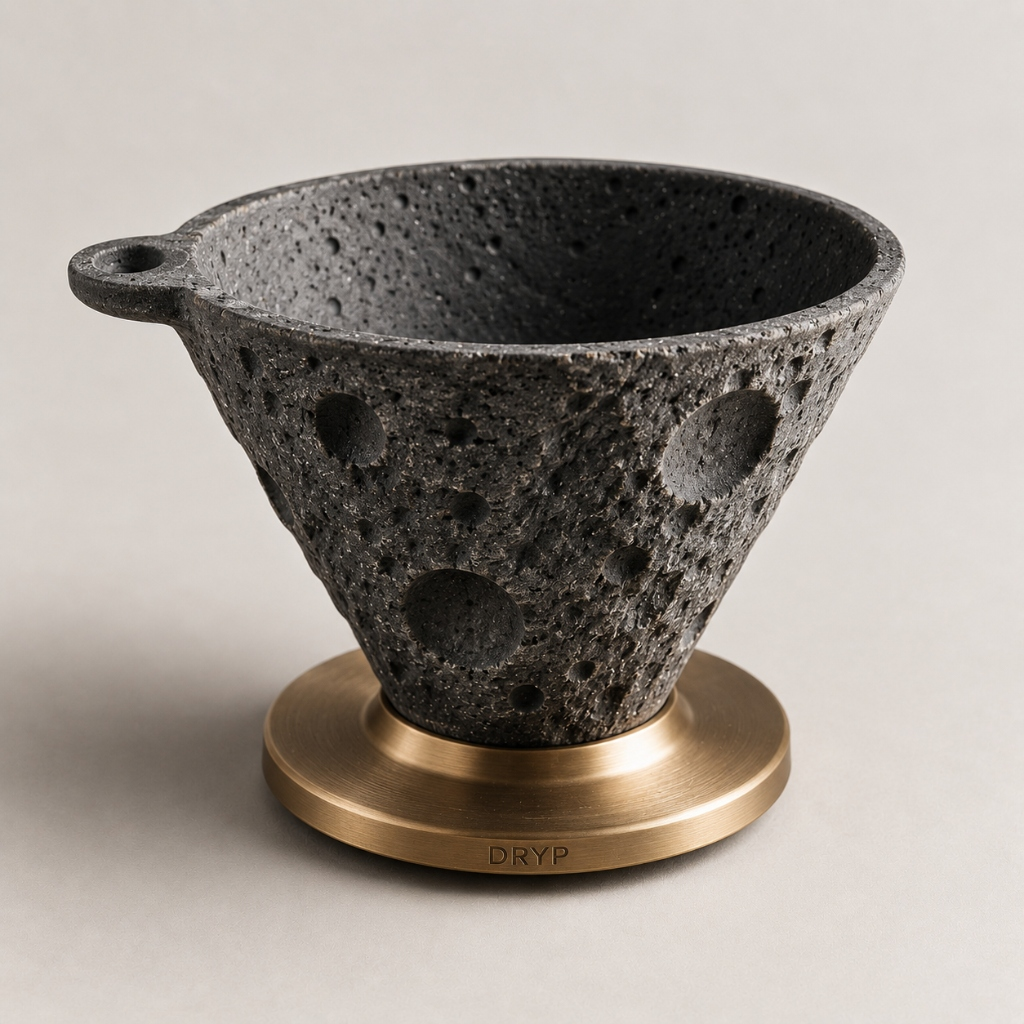
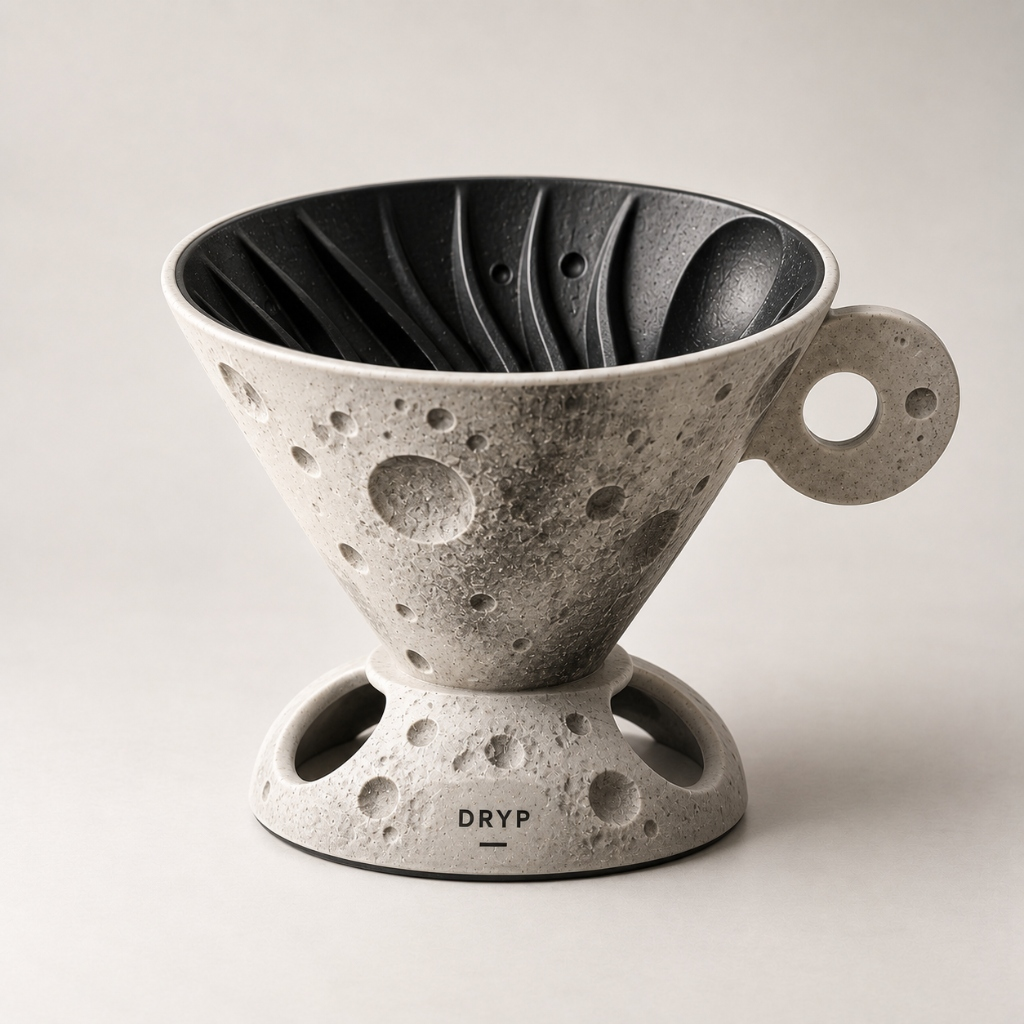
fix: replace Orbit Lunar dripper with cratered lunar regolith ceramic render

diff --git a/dripper-app/src/i18n/localizedData.ts b/dripper-app/src/i18n/localizedData.ts
@@ -559,16 +559,16 @@ export const LOCALIZED_PRODUCTS: Record<Language, Product[]> = {
       eyebrow: 'SPACE 01',
       name: 'Orbit Lunar Crater',
       headline: 'Looking up at things far away.',
-      story: 'Cratered basalt stoneware cone with hand-sculpted lunar topography, tactile rim loop handle, and a solid brushed brass pedestal base debossed with the studio hallmark.',
-      objectDescription: 'Porous volcanic stoneware creates deep thermal retention while the precision machined brass ring anchors steady, vibration-free manual drawdown.',
+      story: 'Speckled lunar regolith stoneware cone deeply sculpted with impact craters, an integrated circular crater loop handle, a contrasting matte dark chamber with spiraled drainage flutes, and an arched pedestal base stamped with DRYP.',
+      objectDescription: 'The micro-textured lunar surface provides natural finger grip and tactile wonder, while internal aerodynamic spiral flutes guide uniform extraction down to a silky, balanced cup.',
       price: 92,
       currency: 'USD',
       stockStatus: 'available',
       stockLabel: 'Available • Lunar Edition',
       stockCountRemaining: 14,
       paletteColors: [
-        { name: 'Basalt Black Crater', hex: '#2A2928' },
-        { name: 'Turned Solid Brass', hex: '#C59A45' }
+        { name: 'Lunar Regolith Grey', hex: '#D1CEC7' },
+        { name: 'Crater Shadow Carbon', hex: '#2A2928' }
       ],
       specs: {
         extractionStyle: 'Clean, sweet, transparent cup with prolonged finish',
@@ -1626,16 +1626,16 @@ export const LOCALIZED_PRODUCTS: Record<Language, Product[]> = {
       eyebrow: 'ESPACIO 01',
       name: 'Orbit Lunar Crater',
       headline: 'La inmensidad silenciosa del regolito lunar.',
-      story: 'Cono de gres basalto volcánico con cráteres esculpidos a mano, micro-asa táctil y peana circular de latón macizo cepillado grabada con el sello DRYP.',
-      objectDescription: 'El cuerpo de basalto poroso retiene el calor de extracción de forma uniforme, mientras la peana de latón torneado proporciona un centro de gravedad bajo y estabilidad milimétrica.',
+      story: 'Cono de gres cerámico en acabado regolito lunar esculpido con cráteres de impacto, asa circular integrada, cámara interior en carbono oscuro con estrías espirales de drenaje y base arqueada con sello grabado DRYP.',
+      objectDescription: 'La superficie lunar micro-texturizada ofrece un agarre táctil inigualable, mientras que las estrías aerodinámicas interiores aseguran un drenaje uniforme y una taza balanceada, dulce y sedosa.',
       price: 92,
       currency: 'USD',
       stockStatus: 'available',
       stockLabel: 'Disponible • Edición Lunar',
       stockCountRemaining: 14,
       paletteColors: [
-        { name: 'Basalto Lunar Mate', hex: '#2A2928' },
-        { name: 'Peana Latón Cepillado', hex: '#C59A45' }
+        { name: 'Regolito Lunar Gris', hex: '#D1CEC7' },
+        { name: 'Sombra de Cráter Carbón', hex: '#2A2928' }
       ],
       specs: {
         extractionStyle: 'Taza limpia, dulce y balanceada con cuerpo sedoso',

diff --git a/dripper-app/src/data/pinterestPinsData.ts b/dripper-app/src/data/pinterestPinsData.ts
@@ -241,8 +241,8 @@ export const DRYP_DRIPS: DrypDrip[] = [
   {
     id: 'drip-cosmos-orbit',
     productId: 'orbit-space',
-    title: '04 / Orbit Lunar',
-    subtitle: 'Basalto volcánico texturizado con cráteres esculpidos y base de latón. Inercia térmica superior para extracciones limpias.',
+    title: '04 / Orbit Lunar Crater',
+    subtitle: 'Cerámica de regolito lunar con cráteres esculpidos, cámara interior negra estriada, asa circular lunar y base arqueada con sello DRYP.',
     category: 'Cosmos',
     categoryLabel: 'Universo',
     imageSrc: '/images/products/orbit.jpg',
